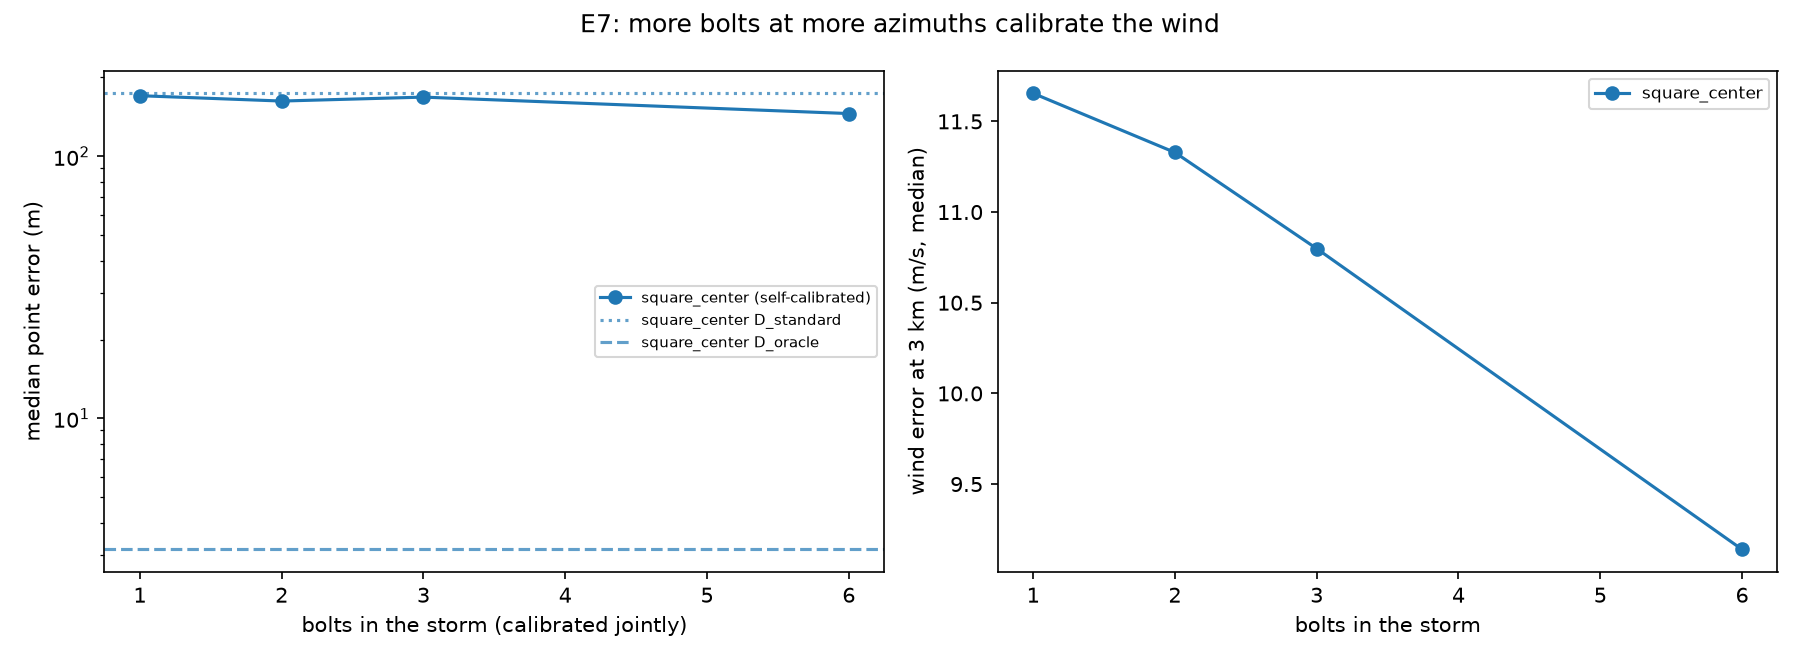
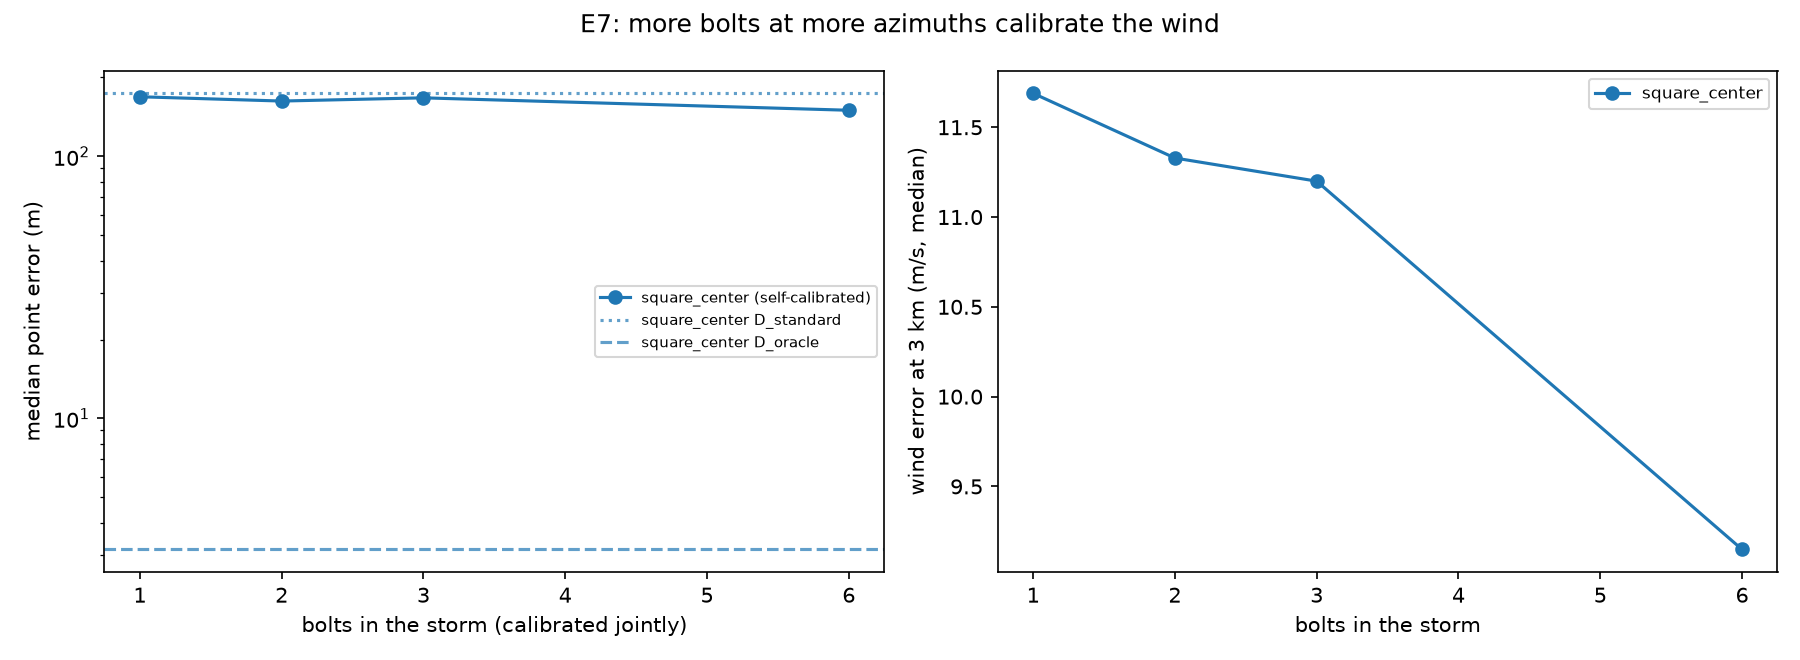
Final E6/E7 runs (deterministic): docs, figures, README and report updated
- E7 (commit a0ff2aa): 6-bolt storm 150 m, near-honest error bars; the wind's
  observable signature is microsecond-level (mm of mic position).
- E6 (commit 4b1925f): Method D on upgraded phones 163 m with honest bars,
  beating B and matching the field kit; raw phones treat array errors as noise.

diff --git a/docs/results/e7_self_calibration.md b/docs/results/e7_self_calibration.md
@@ -5,7 +5,7 @@
 **Answer.**
 - **Sound speed and lapse rate: recovered well.** The height gradient of the path-averaged sound speed is within about 0.2–0.3 m/s per km.
 - **Error bars: honest once the array is calibrated too.** That means estimating per-mic clock and position offsets alongside the atmosphere.
-- **Wind: not recovered on realistic recordings.** The errors are about 9 m/s against a true 12.6 m/s at 3 km, so accuracy improves only modestly over the standard atmosphere (6-bolt storms: 146 m vs 174 m median).
+- **Wind: not recovered on realistic recordings.** The errors are about 9 m/s against a true 12.6 m/s at 3 km, so accuracy improves only modestly over the standard atmosphere (6-bolt storms: 150 m vs 174 m median).
 - **What it does in controlled conditions:** storm self-calibration does recover the wind (development storm: 13–24 m vs 82–317 m).
 - **Why it degrades on realistic data:** the experiment traces this to per-mic systematic errors and to model misspecification. Both are diagnosed below.
 
@@ -19,28 +19,28 @@
 | Sensors | Realistic field kit (measurement mics, GPS-synced clocks, surveyed positions, photodiode t0, 45 dB SPL ambient, 3 m/s wind noise); 5 mics, square + center, 50 m |
 | Variants, on the same recordings | **B_standard**: Method B with the standard atmosphere. **D_standard**: Method D, standard atmosphere fixed. **D_storm_n**: Method D self-calibrating from the first n bolts of the storm jointly (n = 1: each bolt alone). **D_oracle**: Method D with the true atmosphere |
 | Truth for atmosphere recovery | The true atmosphere's path-averaged sound speed and wind, linear in source height (the same parameterization D estimates); wind compared for a source at 3 km |
-| Provenance | Main run `results/e7_self_calibration/20261008T055410_b321b47716aa_s20261007` (commit `f581407`, with array calibration). Earlier run without array calibration: `.../20261007T225910_b321b47716aa_s20261007` (commit `a9b6a9f`, which also has a mast array). Script `scripts/e7_self_calibration.py` |
+| Provenance | Main run `results/e7_self_calibration/20261008T084245_b321b47716aa_s20261007` (commit `a0ff2aa`, with array calibration and single-threaded, bit-for-bit reproducible inference). Earlier run without array calibration: `.../20261007T225910_b321b47716aa_s20261007` (commit `a9b6a9f`, which also has a mast array). Script `scripts/e7_self_calibration.py` |
 
 ## Results (square + center array, with array calibration)
 
 | Variant | Median error | Main coverage (50 m) | Error-bar coverage 1/2/3σ (nominal 0.20 / 0.74 / 0.97) | CPU per bolt |
 | --- | --- | --- | --- | --- |
-| B, standard atmosphere | 179 m [98, 228] | 14% | 0.00 / 0.00 / 0.01 | 5.9 s |
-| D, standard atmosphere fixed | 174 m [97, 231] | 12% | 0.00 / 0.00 / 0.01 | 33 s |
-| D, self-calibrating each bolt | 170 m [90, 206] | 10% | 0.38 / 0.87 / 0.93 | 9.7 s |
-| D, storm of 2 bolts | 163 m [119, 202] | 7% | 0.32 / 0.85 / 0.92 | 5.7 s |
-| D, storm of 3 bolts | 168 m [111, 217] | 7% | 0.35 / 0.78 / 0.92 | 6.0 s |
-| **D, storm of 6 bolts** | **146 m [78, 201]** | 10% | **0.40 / 0.73 / 0.86** | 6.3 s |
-| D, true atmosphere (oracle) | 3.2 m [3.0, 3.3] | 79% | 0.63 / 0.92 / 0.97 | 42 s |
+| B, standard atmosphere | 179 m [98, 228] | 14% | 0.00 / 0.00 / 0.01 | 5.6 s |
+| D, standard atmosphere fixed | 174 m [97, 231] | 12% | 0.00 / 0.00 / 0.01 | 29 s |
+| D, self-calibrating each bolt | 169 m [90, 206] | 10% | 0.38 / 0.87 / 0.93 | 8.8 s |
+| D, storm of 2 bolts | 163 m [122, 218] | 7% | 0.32 / 0.84 / 0.91 | 5.0 s |
+| D, storm of 3 bolts | 167 m [111, 217] | 6% | 0.34 / 0.79 / 0.92 | 6.0 s |
+| **D, storm of 6 bolts** | **150 m [77, 206]** | 10% | **0.40 / 0.68 / 0.85** | 6.1 s |
+| D, true atmosphere (oracle) | 3.2 m [3.0, 3.3] | 79% | 0.63 / 0.92 / 0.97 | 41 s |
 
 Brackets are 95% bootstrap CIs, resampling whole storms (bolts in a storm share the atmosphere). The oracle's error bars are conservative because the score uses the distance to the *nearest* channel point.
 
 | Bolts calibrated jointly | Wind error at 3 km | Sound-speed gradient error | Wind z-score (rms) |
 | --- | --- | --- | --- |
-| 1 | 11.7 m/s | 0.25 m/s per km | 1.03 |
-| 2 | 11.3 m/s | 0.29 m/s per km | 1.01 |
-| 3 | 10.8 m/s | 0.26 m/s per km | 1.02 |
-| 6 | 9.1 m/s | 0.21 m/s per km | 1.24 |
+| 1 | 11.7 m/s | 0.24 m/s per km | 1.03 |
+| 2 | 11.3 m/s | 0.28 m/s per km | 1.02 |
+| 3 | 11.2 m/s | 0.26 m/s per km | 1.06 |
+| 6 | 9.1 m/s | 0.21 m/s per km | 1.32 |
 
 The median true wind at 3 km is 12.6 m/s.
 
@@ -51,12 +51,12 @@ The median true wind at 3 km is 12.6 m/s.
 
 1. **With the standard atmosphere, error bars are badly overconfident.**
    - **Result:** Method D with the atmosphere fixed reports metre-scale ellipsoids, and almost none contain the truth (coverage 0.00–0.01). The unknown wind's error isn't in its model.
-   - **With self-calibration:** the medium's uncertainty propagates into every point, and coverage rises to 0.73–0.87 at 2σ against 0.74 nominal.
+   - **With self-calibration:** the medium's uncertainty propagates into every point, and coverage rises to 0.68–0.87 at 2σ against 0.74 nominal.
    - **This is Method D's main practical value:** an honest statement of how well each point is known.
 2. **The sound-speed profile is recovered; the wind is not.**
    - **Lapse rate:** recovered to about 0.25 m/s per km from a single bolt.
    - **Wind:** errors of 9–12 m/s for winds of about 12.6 m/s, although the z-scores near 1 show D knows it.
-   - **Accuracy:** six bolts at different azimuths reduce the median error from 174 m to 146 m (16%).
+   - **Accuracy:** six bolts at different azimuths reduce the median error from 174 m to 150 m (14%).
 3. **Why one bolt cannot measure the wind.**
    - **The geometry:** sound from one bolt reaches the array over a narrow range of azimuths. Only the wind along the line of sight changes anything measurable. A cross-wind shifts every apparent source sideways in proportion to its travel time, which looks exactly like a slightly different channel.
    - **What a storm adds:** bolts at other azimuths see that cross-wind component along their own line of sight.
@@ -76,14 +76,15 @@ The median true wind at 3 km is 12.6 m/s.
 
    - **The mechanism:** per-mic errors are the same in every window. Treated as independent noise, they are pooled over hundreds of windows and absorbed by the few shared medium parameters, so even 2 cm (about 60 µs) of position error invents several m/s of wind.
    - **The fix, now in Method D:** per-mic clock and 3-D position offsets are parameters, with priors from the stated hardware accuracy (synthetic test: recovers 2 cm offsets and the wind).
-   - **The trade-off:** array calibration makes the error bars honest (2σ coverage 0.40 → 0.73) and stops self-calibration from damaging calm storms. But the mic offsets and the wind both shift arrival times in direction-dependent ways, so they compete for the same signal:
+   - **The trade-off:** array calibration makes the error bars honest (2σ coverage 0.40 → 0.68) and stops self-calibration from damaging calm storms. But the mic offsets and the wind both shift arrival times in direction-dependent ways, so they compete for the same signal:
 
    | Median error | Calm storms (< 4 m/s) | Windy storms |
    | --- | --- | --- |
    | Standard atmosphere | 35 m | 225 m |
    | Storm self-calibration, without array calibration | 170 m | 104 m |
-   | Storm self-calibration, with array calibration | 62 m | 209 m |
+   | Storm self-calibration, with array calibration | 61 m | 227 m |
 
+   - **Why the wind is so fragile:** most of a cross-wind's effect is absorbed by moving the sources (the apparent channel shifts sideways). What remains observable is microsecond-level, the size of a few millimetres of mic position. In a controlled storm with ideal sensors, self-calibration recovers the wind (30 m error) when the array is known to 1 mm, but not with a 2 cm position prior (about 150 m). Calibrating the wind from thunder needs a millimetre-surveyed array and sub-microsecond clocks; otherwise, measure the wind independently.
    - **A remaining model limit:** even without sensor errors, the likelihood preferred a slightly wrong wind over the truth (objective 268 vs 282). The straight-ray, linear-in-height moving medium plus extended-source window systematics leave structure that the weakly constrained wind absorbs.
 
    ![Wind recovery](../figures/e7_wind_recovery.png)
@@ -98,7 +99,7 @@ The median true wind at 3 km is 12.6 m/s.
 | Situation | Approach |
 | --- | --- |
 | Error bars that mean something | Method D with self-calibration (and array calibration): coverage near nominal |
-| Accuracy without a wind measurement | Self-calibration gives a modest gain (about 16%), mostly from the sound-speed profile |
+| Accuracy without a wind measurement | Self-calibration gives a modest gain (about 14%), mostly from the sound-speed profile |
 | Accuracy at the oracle level (3 m) | Measure the wind: a surface anemometer plus a sounding (radiosonde, a nearby weather model) as Method D's prior |
 | Future work | Storms with wide azimuth coverage; a refracting (ray-traced) medium inside the self-calibration; per-window weighting that discounts windows dominated by overlapping sources |
 

diff --git a/docs/report.md b/docs/report.md
@@ -22,7 +22,7 @@ Thunder carries the geometry of the lightning channel that produced it. Each pie
 - **Array design:** a cheap surrogate, built from the Cramér–Rao bound evaluated over the channel's directions and corrected for the wavefront-curvature bias of plane-wave methods, ranks 20 array layouts in the same order as full simulation (Spearman ρ = 0.98).
 - **Error budget:** clocks within 0.4 ms, mic positions within 12 cm, temperature within 2.5 K and wind within 0.7 m/s keep the median error under 20 m.
 - **Four phones:** positions measured to about 10 cm and clocks synced to about 0.1 ms reach professional-kit accuracy.
-- **Self-calibration:** Method D recovers the temperature profile and gives honest error bars, but not the wind, from a few realistic bolts. I trace that limit to per-microphone systematic errors and model misspecification.
+- **Self-calibration:** Method D recovers the temperature profile and gives near-honest error bars, but not the wind, from a few realistic bolts. I trace that limit to per-microphone systematic errors and model misspecification.
 
 ## 1. Introduction
 
@@ -246,7 +246,7 @@ Distance 1–15 km, branching depth 0–3, and in-cloud sections, with Method B 
 | **+ tape + sync** | **180 m** (field kit: 165 m) |
 | + tape + sync, true atmosphere | **25 m** |
 
-Phone positions are the limit. Once they are measured, phones are as good as professional gear, and what remains is the wind.
+Phone positions are the limit. Once they are measured, phones are as good as professional gear, and what remains is the wind. Method D on the upgraded phones (self-calibrating the atmosphere and the array) reaches 163 m with near-honest error bars (2σ coverage 0.87).
 
 ### E7: self-calibration
 
@@ -255,8 +255,8 @@ Phone positions are the limit. Once they are measured, phones are as good as pro
 | | Median error | 2σ coverage (nominal 0.74) |
 | --- | --- | --- |
 | Standard atmosphere | 174 m | 0.00 |
-| D, self-calibrating each bolt | 170 m | 0.87 |
-| D, 6-bolt storm | 146 m | 0.73 |
+| D, self-calibrating each bolt | 169 m | 0.87 |
+| D, 6-bolt storm | 150 m | 0.68 |
 | True atmosphere | 3.2 m | 0.92 |
 
 **What self-calibration achieves:**
@@ -265,6 +265,7 @@ Phone positions are the limit. Once they are measured, phones are as good as pro
 
 **What it does not:** recover the wind. A controlled study explains why:
 - **One bolt sees the wind only along its line of sight.** A cross-wind shifts every apparent source sideways in proportion to its travel time, which looks like a different channel. Storms with bolts at several azimuths fix this in clean conditions (13–24 m vs 80–98 m).
+- **What is left of the wind's signal is tiny.** Once the sources absorb a cross-wind's displacement, the remaining signature is microsecond-level, the size of a few millimetres of mic position. A controlled storm recovers the wind with a 1 mm array prior, but not with 2 cm.
 - **On realistic recordings, per-mic systematic errors are pooled across windows and absorbed as fake wind.** Even 2 cm of position error (about 60 µs) does this. Modelling them as parameters ("array calibration") makes the error bars honest. But mic offsets and the wind then share the signal, and the likelihood itself prefers a slightly wrong wind (model misspecification).
 
 The practical route to the 3 m oracle is independent wind data used as Method D's prior.

diff --git a/docs/results/e6_consumer.md b/docs/results/e6_consumer.md
@@ -16,7 +16,7 @@
 | Assumed atmosphere | Standard: right surface temperature, 6.5 K/km, no wind |
 | Phones | 4 on a 50 m square. `phone` mic preset (100 Hz high-pass, 32 dB SPL self-noise, 16-bit). Clocks aligned by a hand clap (3 ms offsets, 20 ppm drift). Flash time from 30 fps video (uniform ±16.7 ms). Phone GPS positions (3 m horizontal, 5 m vertical). 45 dB SPL ambient, 3 m/s wind noise |
 | Method | B (most coverage in E4); Method D (self-calibrating, noise priors matching each setup) for error-bar honesty |
-| Provenance | `results/e6_consumer/20261008T025801_d549ad67a6fc_s20261006`, commit `a9b6a9f`, script `scripts/e6_consumer.py` |
+| Provenance | `results/e6_consumer/20261008T165703_9b368dd12d90_s20261006`, commit `4b1925f` (bit-for-bit reproducible), script `scripts/e6_consumer.py` |
 
 ## The upgrade ladder
 
@@ -47,11 +47,13 @@ Brackets are 95% bootstrap CIs over bolts. "Points per bolt" counts reconstructe
 4. **Flash timing from video is good enough.** The photodiode changes nothing (180 vs 180 m). A ±17 ms flash time shifts ranges by about 6 m, small next to everything else (E3).
 5. **What remains is the atmosphere, for phones and professional kit alike.** With the wind known, upgraded phones reach 25 m. Without it, everything sits at about 170–180 m. That is the self-calibration problem of E7.
 
-**Honesty of the error bars.**
+**Method D: honest error bars, and the best accuracy once the phones are upgraded.**
 - **Method B** reports covariances only as a by-product: its 1/2/3σ coverage is near 0.
-- **Method D** (self-calibrating, told the phone-grade noise levels) is much closer, but still overconfident: 0.25 / 0.54 / 0.71 for phones and 0.25 / 0.49 / 0.65 for the upgraded phones, against 0.20 / 0.74 / 0.97 nominal.
-- **Accuracy:** D is no more accurate than B here (528 vs 490 m; 235 vs 180 m).
-- **Why the bars are overconfident:** this run predates D's array calibration, which models per-mic position and clock errors explicitly (E7, commit `f581407`), so those errors were still treated as independent noise.
+- **Upgraded phones** (tape + 0.1 ms sync): Method D self-calibrates the atmosphere and the array (per-mic clock and position offsets).
+  - **Accuracy:** **163 m** [147, 168], the best phone result without a wind measurement. It beats Method B (180 m) and matches the field kit (165 m).
+  - **Error bars:** nearly honest, **0.53 / 0.87 / 0.93** against 0.20 / 0.74 / 0.97 nominal.
+- **Raw phones:** Method D treats the metre- and millisecond-level array errors as noise (`d_array_calibration: false`). Result: 528 m, error bars 0.25 / 0.54 / 0.71, no better than B.
+- **Why array calibration is off for raw phones:** with it on, a single bolt cannot constrain 20 array parameters with ±4 m and ±3 ms priors. An earlier run (commit `a0ff2aa`) gave 1,548 m and overconfident bars (0.04 / 0.12 / 0.16). Array calibration is for survey-grade arrays.
 
 ## What you could do with 4 phones
 

diff --git a/docs/assumptions.md b/docs/assumptions.md
@@ -48,5 +48,5 @@ Every modeling assumption goes here, with the phase it affects and how it could 
 | A42 | The E2 surrogate (CRB) assumes one plane wave per window with independent, equal timing noise at every mic. It ignores multiple sources per window, extended-source decorrelation across large baselines and finite windows. Wavefront curvature biases the plane-wave methods (A, B) on asymmetric layouts; E2 adds that bias to the surrogate (`plane_wave_bias`). | 7 | E2 shows the bias-aware, channel-weighted surrogate ranks layouts with ρ = 0.98. |
 | A43 | E3's "unknown wind" uses a stratified atmosphere with no lapse rate and a power-law wind, while the reconstruction assumes still uniform air. Its "temperature error" changes only the assumed surface temperature of a uniform atmosphere. | 7 | — |
 | A44 | Method D's self-calibration medium is an effective moving medium: straight rays, with sound speed and horizontal wind linear in source height (path averages). It cannot represent ray curvature or ground reflection. | 8 | Adequate when its parameters are right (1.4 m still air, 7.7 m in 6 m/s wind on a development bolt). A ray-traced medium is future work. |
-| A45 | Method D's noise model: independent per-mic measurement noise (each window's pair misfit, 50 µs floor), plus a window-common term for the sound's time spread. Per-mic clock and position errors are parameters when self-calibrating and noise terms otherwise. Gaussian likelihood, Laplace posterior. | 8 | The flat-array, self-calibrating posterior is non-Gaussian near the horizon (3σ coverage 0.91 on synthetic data). |
+| A45 | Method D's noise model: independent per-mic measurement noise (each window's pair misfit, 50 µs floor), plus a window-common term for the sound's time spread. Per-mic clock and position errors are parameters when self-calibrating with `d_array_calibration` (the default), and noise terms otherwise. Phone-grade errors (metres, milliseconds) are better treated as noise: one bolt cannot constrain them (E6). Gaussian likelihood, Laplace posterior. | 8 | The flat-array, self-calibrating posterior is non-Gaussian near the horizon (3σ coverage 0.91 on synthetic data). |
 | A46 | E6's "0.1 ms sync" upgrade for phones (VERIFY) stands for an app-level timing method (GPS time, shared sync chirp). It is not a measured phone capability. | 8 | Measure the clock offsets of real phones. |

diff --git a/README.md b/README.md
@@ -56,8 +56,8 @@ All experiments use the same bolts across compared variants (paired), realistic 
 | **E3** error budget | For 20 m median error: clocks within about 0.4 ms, mic positions within about 12 cm, temperature within about 2.5 K, wind known to about 0.7 m/s. Unknown wind costs about 26 m per m/s |
 | **E4** methods | With the true atmosphere, Methods A–C reach 3.0–3.3 m; B recovers the most channel (86% of the main channel, 57% of branches). With the wind unknown, every method sits near 130 m: the atmosphere matters about 40× more than the method |
 | **E5** limits | Direction accuracy holds to 15 km (about 0.035°). Coverage drops below 50% near 11 km, from the refraction shadow and overlapping arrivals, not noise |
-| **E6** four phones | As-is (phone GPS positions, hand-clap sync): about 0.5 km error. Tape-measured positions plus 0.1 ms sync reach professional-kit quality (180 m vs 165 m, wind-limited); with the atmosphere known, about 25 m |
-| **E7** self-calibration | Method D recovers the sound-speed profile and gives honest error bars on realistic data (2σ coverage 0.73 vs 0.74 nominal). It does **not** recover the wind from a few realistic bolts. Diagnosis: per-mic systematic errors and model misspecification compete with the weakly observable cross-wind. Independent wind data is the route to the 3 m oracle |
+| **E6** four phones | As-is (phone GPS positions, hand-clap sync): about 0.5 km error. Tape-measured positions plus 0.1 ms sync reach professional-kit quality (180 m with B; 163 m with Method D, which calibrates the atmosphere and the array); with the atmosphere known, about 25 m |
+| **E7** self-calibration | Method D recovers the sound-speed profile and gives near-honest error bars on realistic data (2σ coverage 0.68–0.87 vs 0.74 nominal). It does **not** recover the wind from a few realistic bolts: after the sources absorb a cross-wind, its signature is microsecond-level, the size of millimetres of mic position. Independent wind data is the route to the 3 m oracle |
 
 Method D's uncertainty is calibrated on controlled cases (1/2/3σ coverage 0.19 / 0.75 / 0.97 vs 0.20 / 0.74 / 0.97 nominal). Self-calibrating on a flat array is the one exception, with a light 3σ tail; `docs/log.md` explains why.
 

diff --git a/docs/log.md b/docs/log.md
@@ -361,3 +361,11 @@ This is exact for wind, including the lateral drift that the common "effective s
 - **Consequence:** with a centimetre-level position prior, honest inference must report the wind as unknown, which is what E7 found on realistic data.
 - **The test now encodes ideal hardware known to be ideal** (1 mm, 0.1 µs priors).
 - **Practical implication:** storm self-calibration of the wind needs a millimetre-surveyed array (total station) and sub-microsecond clocks. Otherwise, measure the wind independently.
+
+**Final reproducible runs.**
+- **E7:** commit `a0ff2aa`. Conclusions unchanged, with slightly different numbers now that inference is deterministic: 6-bolt storm 150 m (was 146 m), 2σ coverage 0.68.
+- **E6, first rerun:** also at `a0ff2aa`. It exposed that array calibration with phone-grade priors (±4 m, ±3 ms) is ill-posed from one bolt: 1,548 m and overconfident.
+- **Decision:** new switch `d_array_calibration` (default on). With it off, per-mic errors stay noise terms. E6's raw-phone Method D variant turns it off.
+- **E6, final run** (commit `4b1925f`):
+  - raw phones with D: 528 m, bars 0.25 / 0.54 / 0.71;
+  - upgraded phones with D, array calibration on: **163 m, bars 0.53 / 0.87 / 0.93**, better than B (180 m) and equal to the field kit.
